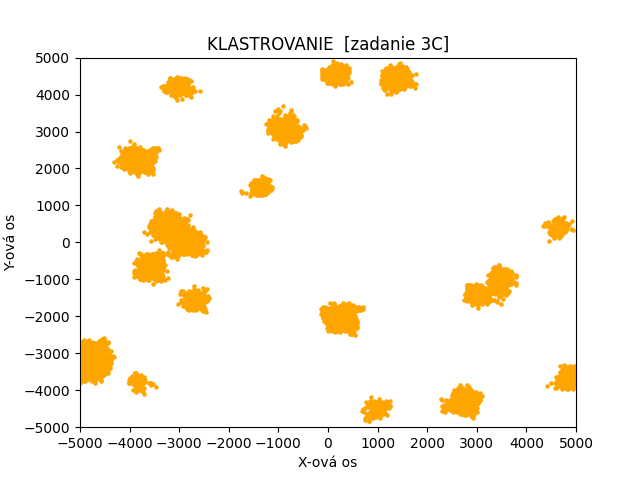
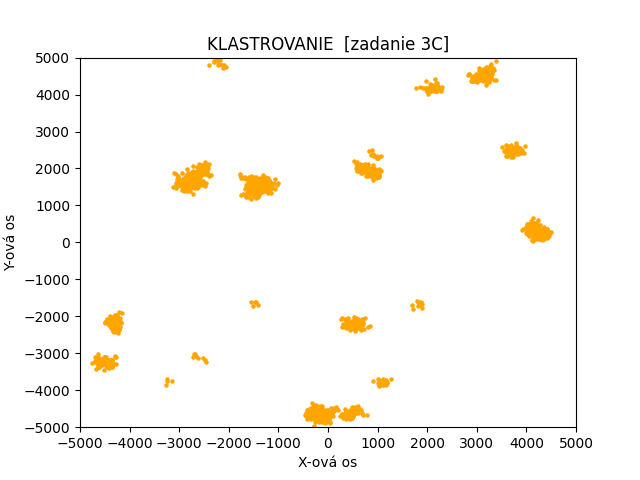
ASI FUNKČNÉ Z CHATU, budem to isto prerábať

diff --git a/main.py b/main.py
@@ -1,7 +1,7 @@
 # FIIT STU
 #   Adam Vrabeľ
 #       UI - KLASTROVANIE (3C)
-
+import copy
 import random
 import numpy as np
 import matplotlib.pyplot as plt
@@ -12,9 +12,9 @@ import matplotlib.pyplot as plt
 MIN_VALUE = -5000
 MAX_VALUE = 5000
 
-NUM_OF_START_POINTS = 20            # NAJPRV VYGENERUJE 20 POČIATOČNÝ BODOV
+NUM_OF_START_POINTS = 10            # NAJPRV VYGENERUJE 20 POČIATOČNÝ BODOV
 # NUM_OF_ANOTHER_POINTS = 20000       # NÁSLEDNE 20000 ĎALŠÍCH BODOV
-NUM_OF_ANOTHER_POINTS = 2000        # NÁSLEDNE 20000 ĎALŠÍCH BODOV
+NUM_OF_ANOTHER_POINTS = 500        # NÁSLEDNE 20000 ĎALŠÍCH BODOV
 
 # pre generate_first_points() a export_graph()
 #    # je ALL_POINTS list of dictionary => "color" = farba  | "points" = body (x,y)
@@ -22,16 +22,18 @@ NUM_OF_ANOTHER_POINTS = 2000        # NÁSLEDNE 20000 ĎALŠÍCH BODOV
 # pre generate_points() a print_points()
 #    # je ALL_POINTS jednoducho list bodov (x, y)
 
-ALL_POINTS = []            # ZOZNAM VŠ BODOV
+# ALL_POINTS = []            # ZOZNAM VŠ BODOV
 
 ################################################################################################
 
 
 # GENERUJE BODY PODĽA ZADANIA
+# BOD = (x, y)
+# vráti LIST BODOV
 def generate_points():
-    # GENEROVANIE JEDINEČNÝCH NÁHODNÝCH BODOV (20bodov)
-    global ALL_POINTS
+    ALL_POINTS = []
 
+    # GENEROVANIE JEDINEČNÝCH NÁHODNÝCH BODOV (20bodov)
     generated_points = []  # VYGENEROVANÉ BODY (X, Y, FARBA)
 
     # GENERUJE JEDINEČNÉ BODY (až pokial ich nieje NUM_OF_START_POINTS dokopy)
@@ -110,6 +112,8 @@ def generate_points():
         if (new_x, new_y) not in ALL_POINTS:
             ALL_POINTS.append((new_x, new_y))
 
+    return ALL_POINTS
+
 ####
 
 
@@ -118,14 +122,98 @@ def generate_points():
 ####################################
 # vzdialenosť medzi dvoma bodmi v euklidovskej rovine
 def euclidean_distance(point1, point2):
-    return np.sqrt(np.sum((point1 - point2) ** 2))
+    # Konvertujte body na NumPy array
+    point_1 = np.array(point1)
+    point_2 = np.array(point2)
+
+    # Výpočet euklidovskej vzdialenosti
+    return np.sqrt(np.sum((point_1 - point_2) ** 2))
+
+
+# vypočíta 2D maticu vzdialeností vš. bodov     # napr. mám 70 bodov, tak vypočíta 70*70=4900 vzdialeností
+def euclidean_distance_matrix(points):
+
+    # vytvorím 2D maticu, kde element (i, j) obsahuje vzdialenosť medzi bodmi i a j
+    distances = np.zeros((len(points), len(points)))    # na zaciatku vsade 0
+
+    # pre celú maticu distances vypočíta všetky vzdialenosti bodov a zapíše do matice
+    for i in range(len(points)):
+        for j in range(len(points)):
+            distances[i, j] = euclidean_distance(points[i], points[j])
+            # print(distances[i, j])
+
+    return distances
+
+
+def calculate_centroid(cluster):
+    return np.mean(cluster, axis=0)
+
+
+def centroid_distance(cluster1, cluster2):
+    centroid1 = calculate_centroid(cluster1)
+    centroid2 = calculate_centroid(cluster2)
+    return euclidean_distance(centroid1, centroid2)
 
 
 # ALGORITMUS PRE AGLOMERATÍVNE ZHLUKOVANIE, kde stred je centroid
-def aglomerative_w_centroid():
+def aglomerative_w_centroid(dataset, k):
+    ALL_POINTS = copy.deepcopy(dataset)
+
+    # dataset ==>  list dát
+    # k       ==>  na koľko zhlukov rozdelím dataset
+
     # CENTROID JE FIKTÍVNY (novo/umelo vytvorený bod), ktorý je v strede vybraných bodov (ťažisko)
-    number = euclidean_distance(ALL_POINTS[0][0], ALL_POINTS[0][1])
-    print()
+
+    # NA ZAČIATKU SA KAŽDÝ BOD POČÍTA AKO JEDEN ZHLUK (cluster)
+    clusters = [[point] for point in ALL_POINTS]      # inicializácia zhlukov: každý bod == samostatný zhluk (list s jedným bodom)
+
+    # postupné zlučovanie zhlukov (clusterov), kým nie je dosiahnutý požadovaný počet zhlukov (k)
+    num_of_iteration = 0
+    while len(clusters) > k:
+        print(f"NUMBER OF ITERATION: {num_of_iteration}")
+        num_of_iteration += 1
+
+        # Výpočet centroidov
+        centroids = [calculate_centroid(cluster) for cluster in clusters]
+
+        # Výpočet vzdialeností medzi centroidmi
+        distances = euclidean_distance_matrix(centroids)
+
+        # Ignorujte diagonálu matice
+        np.fill_diagonal(distances, np.inf)
+
+        min_distance_index = np.unravel_index(np.argmin(distances), distances.shape)
+
+        # Zlúči dva najbližšie zhluky
+        cluster1 = clusters[min_distance_index[0]]
+        cluster2 = clusters[min_distance_index[1]]
+        new_cluster = cluster1 + cluster2
+        clusters.pop(min_distance_index[0])
+        clusters.pop(min_distance_index[1] - 1)
+
+        clusters.append(new_cluster)
+
+        # distances = euclidean_distance_matrix(clusters)
+
+        # Ignorujte diagonálu matice (0 nahradím nekonečno), takže minimum mi bude správne hľadať
+        # np.fill_diagonal(distances, np.inf)
+
+        # Nájdi indexy najbližších zhlukov
+        min_distance_index = np.unravel_index(np.argmin(distances), distances.shape)
+
+        # SEM VYPOČÍTANIE VŠETKÝCH VZDIALENOSTÍ PRE VŠETKY BODY, A VYBRATIE TÝCH DVOCH BODOV S NAJMENŠIOU VZDIALENOSŤOU
+
+        # VYPOČÍTA VŠ. VZDIALENOSTI PRE BODY
+        # distance_matrix = euclidean_distance_matrix(ALL_POINTS)
+
+        # NÁJDE NAJMENŠIU VZDIALENOSŤ 2 BODOV (okrem diagonály v matici (to je 0 a je to bod so samým sebou))
+
+        pass
+        # ######### koniec iterácie zhlukovania
+
+    return clusters
+
+    print("DEBUG")
     pass
 
 ####################################
@@ -135,7 +223,9 @@ def aglomerative_w_centroid():
 
 
 # VYGENERUJE GRAF
-def print_points(filename=None):
+def print_points(dataset, filename=None):
+    ALL_POINTS = copy.deepcopy(dataset)
+
     # Vytvorím graf s prázdnymi osami v rozsahu od -5000 do 5000
     # plt.axis((-5000, 5000, -5000, 5000))
     plt.axis((MIN_VALUE, MAX_VALUE, MIN_VALUE, MAX_VALUE))
@@ -173,39 +263,8 @@ def print_points(filename=None):
     plt.show()
 
 
-################################################################################################
-################################################################################################
-
-
-# VYGENERUJE BODY
-def generate_first_points():
-    # GENEROVANIE JEDINEČNÝCH NÁHODNÝCH BODOV
-    NUM_OF_START_POINTS = 20  # POČIATOČNÝ POČET BODOV
-
-    generated_points = []  # VYGENEROVANÉ BODY (X, Y, FARBA)
-
-    # GENERUJE JEDINEČNÉ BODY (až pokial ich nieje NUM_OF_START_POINTS dokopy)
-    while len(generated_points) < NUM_OF_START_POINTS:
-        # pozicia(X,Y)
-        # randint(A,B)  od A do B, vrátane
-        x = random.randint(MIN_VALUE, MAX_VALUE)    # od -5000 do +5000
-        y = random.randint(MIN_VALUE, MAX_VALUE)    # od -5000 do +5000
-
-        if (x, y) not in generated_points:
-            generated_points.append((x, y))
-
-    # DICTIONARY SKUPINY BODOV (momentálne prvých 20)
-    skupina_bodov = {
-        'color': "red",
-        'points': generated_points,
-    }
-    ALL_POINTS.append(skupina_bodov)  # PRIPOJÍ VYGENEROVANÉ BODY
-
-    # END GENEROVANIE JEDINEČNÝCH NÁHODNÝCH BODOV ##########################################
-
-
-# VYKRESLÍ GRAF
-def export_graph():
+def print_clusters(clusters, filename=None):
+    ALL_CLUSTERS = copy.deepcopy(clusters)
 
     # Vytvorím graf s prázdnymi osami v rozsahu od -5000 do 5000
     # plt.axis((-5000, 5000, -5000, 5000))
@@ -214,7 +273,7 @@ def export_graph():
     # Nastavím popisky osí a titulok
     plt.xlabel('X-ová os')
     plt.ylabel('Y-ová os')
-    plt.title('Graf bodov od -5000 do 5000')
+    plt.title('KLASTROVANIE  [zadanie 3C]')
 
     # Nastavím hodnoty osí po tisícoch
     plt.xticks(range(-5000, 5001, 1000))
@@ -223,27 +282,36 @@ def export_graph():
     # Pridám bod (0,0) s veľkosťou guličky 5
     # plt.scatter(0, 0, color='red', s=5)
 
-    for group_of_points in ALL_POINTS:
-        # KAŽDÁ group_of_points JE POLE BODOV, S JEDNOU FARBOU
+    i = 0
+    farba = ["red", "blue", "green", "pink"]
+    for cluster in ALL_CLUSTERS:
+
         hodnoty_x = []
         hodnoty_y = []
-        hodnota_farba = group_of_points["color"]
-
-        for x, y in group_of_points["points"]:
+        for x, y in cluster:
             hodnoty_x.append(x)
             hodnoty_y.append(y)
 
-        # V KAŽDEJ ITERÁCII ZAPÍŠEM BODY DO GRAFU (rovnakej farby)
-        plt.scatter(hodnoty_x, hodnoty_y, color=hodnota_farba, s=5)
+        # ZAPÍŠEM BODY DO GRAFU (rovnakej farby)
+        color = farba[i]
+        # plt.scatter(hodnoty_x, hodnoty_y, color="orange", s=5)
+        plt.scatter(hodnoty_x, hodnoty_y, color=str(color), s=5)
+        i += 1
 
     # Pridáme legendu
     # plt.legend()
 
     # Uloženie grafu do súboru vo formáte PNG
-    # plt.savefig('export_graphs/graf.png')
+    if filename is not None:
+        filename = str(filename)
+        plt.savefig(f"export_graphs/{filename}.png")
 
     # Zobrazení grafu
     plt.show()
+
+
+################################################################################################
+################################################################################################
 
 
 ################################
@@ -252,11 +320,11 @@ def export_graph():
 if __name__ == '__main__':
     print("\nUI ZADANIE 3, KLASTROVANIE\n")
 
-    # TOTO NEPOUŽÍVAM
-    # generate_first_points()
-    # export_graph()
+    # DATASET ==>  list bodov (x, y)
+    DATASET = generate_points()
+    # print_points(dataset=DATASET, filename="1_start_GRAPH")
+    # print_points(dataset=DATASET)
 
-    generate_points()
-    # print_points("1_start_GRAPH")
+    clust = aglomerative_w_centroid(dataset=DATASET, k=3)
 
-    aglomerative_w_centroid()
+    print_clusters(clust)
